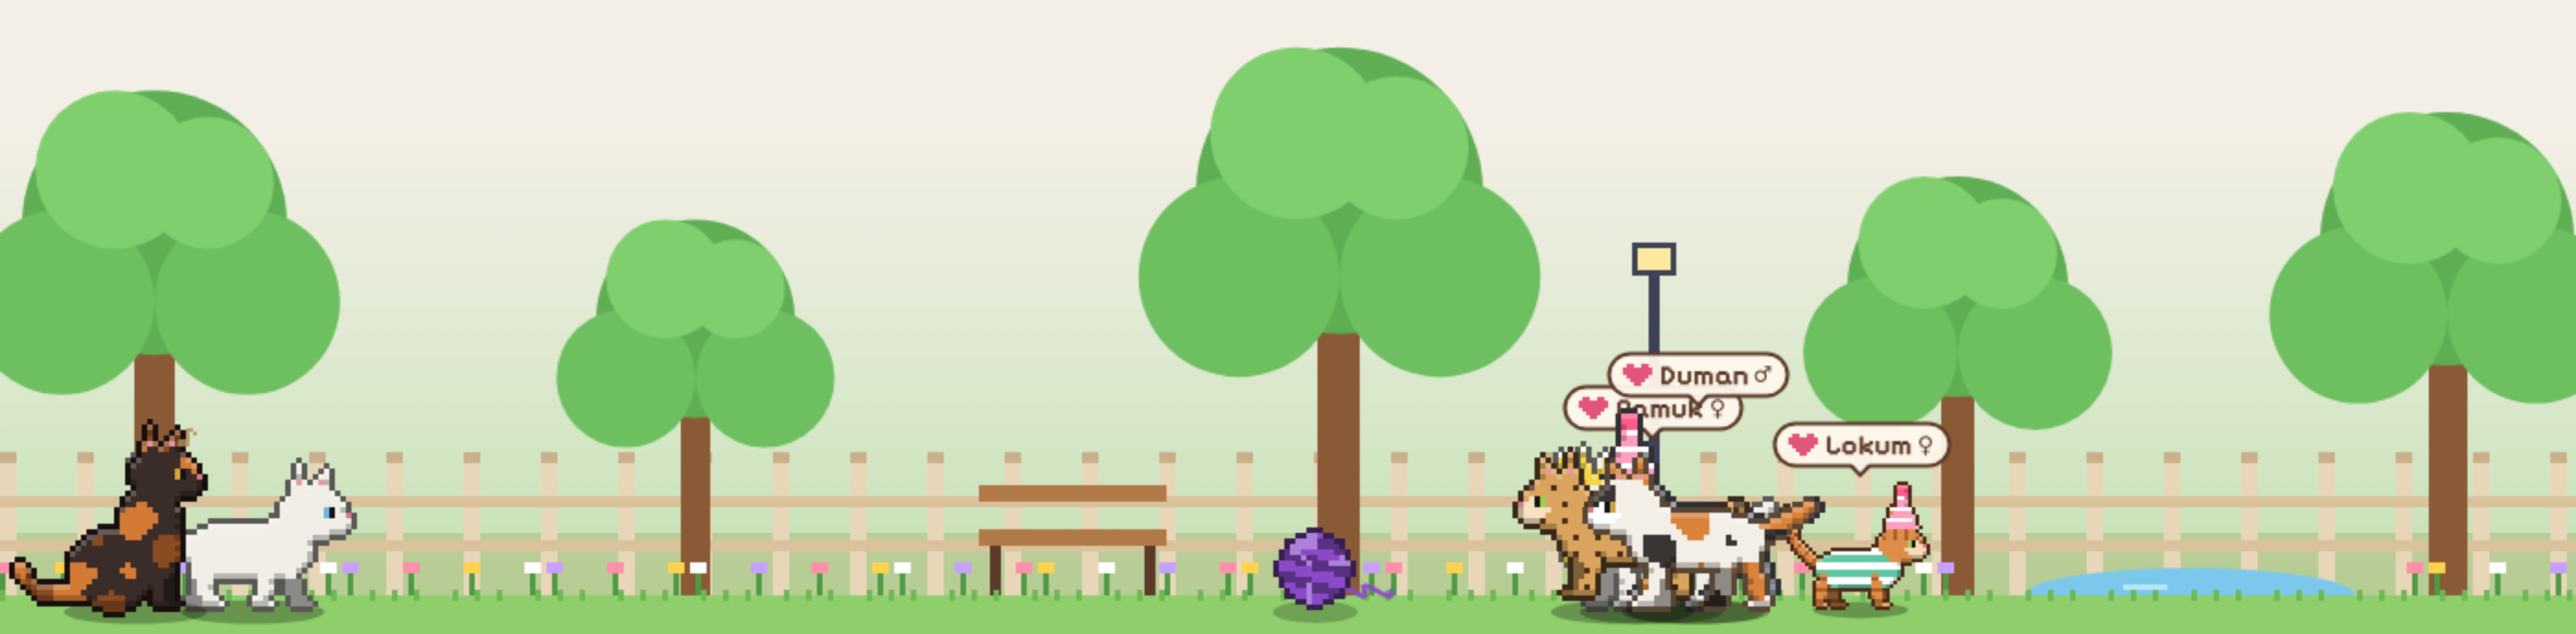
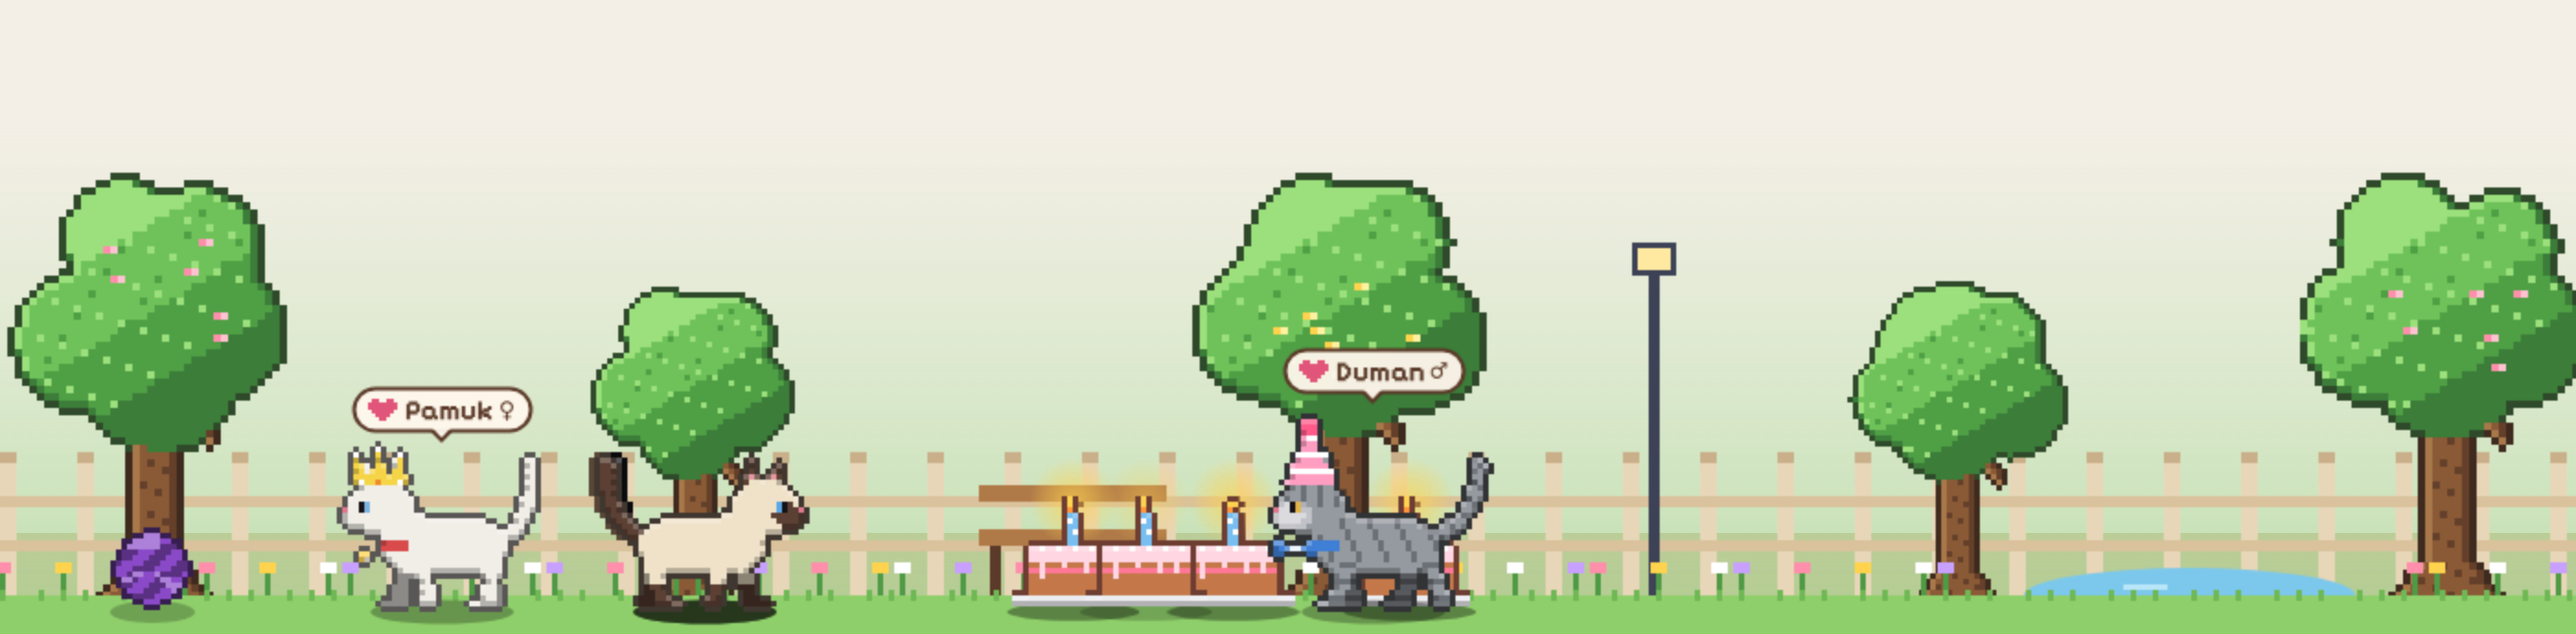
Pixel-art trees in the cat park

diff --git a/src/cat.js b/src/cat.js
@@ -2830,8 +2830,9 @@
         const gr = g.createLinearGradient(0, f - 260, 0, f); gr.addColorStop(0, "rgba(170,225,160,0)"); gr.addColorStop(1, "rgba(150,210,130,.55)"); g.fillStyle = gr; g.fillRect(0, f - 260, W, 260);
         for (let x = 0; x < W; x += 14 * k) { px(x, f - 26 * k, 3 * k, 24 * k, "#e8d6b8"); px(x, f - 28 * k, 3 * k, 2 * k, "#c9b08a"); }
         px(0, f - 20 * k, W, 2 * k, "#d9c29c"); px(0, f - 12 * k, W, 2 * k, "#d9c29c");
-        const tree = (x, s) => { px(x - 3 * k * s, f - 40 * k * s, 6 * k * s, 40 * k * s, "#8a5a36"); for (const [dx, dy, r, col] of [[0, -58, 20, "#5fae54"], [-14, -46, 14, "#6dbf5f"], [14, -46, 14, "#6dbf5f"], [-6, -66, 12, "#7fcf6e"], [8, -64, 10, "#7fcf6e"]]) { g.fillStyle = col; g.beginPath(); g.arc(x + dx * k * s, f + dy * k * s, r * k * s, 0, 7); g.fill(); } };
-        for (const [x, s] of [[0.06, 1.2], [0.27, 0.9], [0.52, 1.3], [0.76, 1], [0.95, 1.15]]) tree(W * x, s);
+        // pixel-art trees: a lumpy canopy lit from the top left, a dark outline, a few leaf clusters, a trunk with bark and roots
+        const tree = (x, sz, seed) => { const t = parkTree(seed), m = Math.max(2, Math.round(k * sz)); g.imageSmoothingEnabled = false; g.drawImage(t, Math.round(x - (t.width * m) / 2), Math.round(f - t.height * m + m), t.width * m, t.height * m); };
+        for (const [x, sz, seed] of [[0.06, 1.25, 1], [0.27, 0.95, 2], [0.52, 1.35, 3], [0.76, 1.05, 4], [0.95, 1.2, 5]]) tree(W * x, sz, seed);
         const bx = W * 0.38; px(bx, f - 14 * k, 34 * k, 3 * k, "#b07a48"); px(bx, f - 22 * k, 34 * k, 3 * k, "#b07a48"); px(bx + 2 * k, f - 11 * k, 2 * k, 11 * k, "#5b3a29"); px(bx + 30 * k, f - 11 * k, 2 * k, 11 * k, "#5b3a29");
         const lx = W * 0.64; px(lx, f - 60 * k, 2 * k, 60 * k, "#3d4256"); px(lx - 3 * k, f - 66 * k, 8 * k, 6 * k, "#3d4256"); px(lx - 2 * k, f - 65 * k, 6 * k, 4 * k, "#ffe9a0");
         const pdx = W * 0.85; g.fillStyle = "#7cc8ec"; g.beginPath(); g.ellipse(pdx, f - 2 * k, 30 * k, 5 * k, 0, 0, 7); g.fill(); g.fillStyle = "#b8e6f8"; g.fillRect(pdx - 12 * k, f - 4 * k, 8 * k, k);
@@ -3339,6 +3340,42 @@
       }
       ctx.globalAlpha = 1;
     }
+  }
+
+  // ---------------------------------------------------------------- a pixel-art park tree (drawn once per seed, then scaled up crisp)
+  const treeCache = {};
+  function parkTree(seed) {
+    if (treeCache[seed]) return treeCache[seed];
+    let r = seed * 9301 + 17; const rr = () => { r = (r * 9301 + 49297) % 233280; return r / 233280; };
+    const W = 40, H = 62, cv = document.createElement("canvas"); cv.width = W; cv.height = H; const g = cv.getContext("2d");
+    const put = (x, y, c) => { g.fillStyle = c; g.fillRect(x, y, 1, 1); };
+    // the canopy: a few overlapping blobs
+    const blobs = [[20, 18, 13], [11, 24, 9], [29, 24, 9], [15, 12, 8], [26, 12, 8], [20, 28, 10]].map(([x, y, rad]) => [x + (rr() - 0.5) * 3, y + (rr() - 0.5) * 2, rad * (0.9 + rr() * 0.2)]);
+    const leaf = (x, y) => blobs.some(([cx, cy, rad]) => (x + 0.5 - cx) ** 2 + (y + 0.5 - cy) ** 2 <= rad * rad);
+    // the trunk and roots
+    const trunk = (x, y) => (y >= 30 && y < H - 2 && Math.abs(x + 0.5 - 20) <= 3 + (y > H - 8 ? (y - (H - 8)) * 0.8 : 0)) || (y >= 34 && y <= 38 && ((x >= 23 && x <= 27 && y - 34 <= x - 23 && y - 34 >= x - 25)));
+    const OUT = "#2f4a2a", L1 = "#9be07c", L2 = "#6fc25a", L3 = "#4f9f45", L4 = "#3b7d39", T1 = "#a8784a", T2 = "#8a5a36", T3 = "#64402a", TO = "#3e2a1e";
+    for (let y = 0; y < H; y++) for (let x = 0; x < W; x++) {
+      if (leaf(x, y)) {
+        const up = !leaf(x, y - 1), lf = !leaf(x - 1, y), dn = !leaf(x, y + 1), rt = !leaf(x + 1, y);
+        const lightness = (x - 20) * 0.6 + (y - 18);                                  // light from the top left
+        let c = lightness < -10 ? L1 : lightness < 2 ? L2 : lightness < 12 ? L3 : L4;
+        if (up || lf) c = c === L4 ? L3 : L1;                                         // a lit rim
+        if (dn || rt) c = L4;                                                         // shadowed underside
+        if ((x * 7 + y * 13) % 17 === 0 && c !== L4) c = L1;                          // little glints in the leaves
+        if ((x * 5 + y * 11) % 23 === 0 && c === L2) c = L3;
+        put(x, y, c);
+      } else if (trunk(x, y)) {
+        const edgeL = !trunk(x - 1, y), edgeR = !trunk(x + 1, y);
+        put(x, y, edgeL ? T1 : edgeR ? T3 : (y + x * 3) % 7 === 0 ? T3 : T2);       // bark lines
+      }
+    }
+    // a dark outline round everything
+    const solid = (x, y) => x >= 0 && y >= 0 && x < W && y < H && (leaf(x, y) || trunk(x, y));
+    for (let y = 0; y < H; y++) for (let x = 0; x < W; x++) if (!solid(x, y) && (solid(x - 1, y) || solid(x + 1, y) || solid(x, y - 1) || solid(x, y + 1))) put(x, y, leaf(x - 1, y) || leaf(x + 1, y) || leaf(x, y - 1) || leaf(x, y + 1) ? OUT : TO);
+    // a few round fruit or blossom dots on some trees
+    if (seed % 2) for (let i = 0; i < 6; i++) { const x = Math.round(10 + rr() * 20), y = Math.round(8 + rr() * 20); if (leaf(x, y) && leaf(x + 1, y + 1)) { put(x, y, seed % 4 === 1 ? "#ff8fab" : "#ffd34d"); put(x + 1, y, seed % 4 === 1 ? "#ffc2d1" : "#fff1a0"); } }
+    return (treeCache[seed] = cv);
   }
 
   // ---------------------------------------------------------------- visitors: a squirrel, a hedgehog, a little cloud of butterflies
